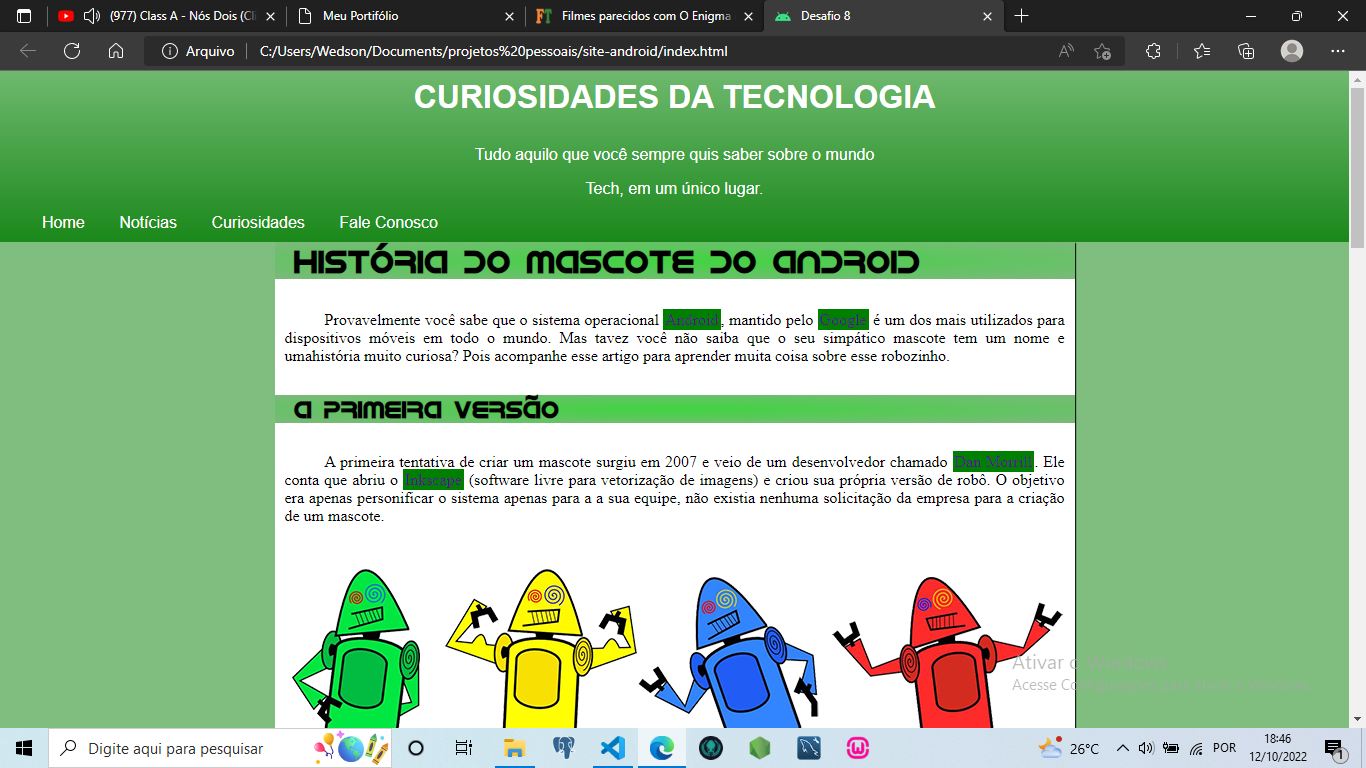
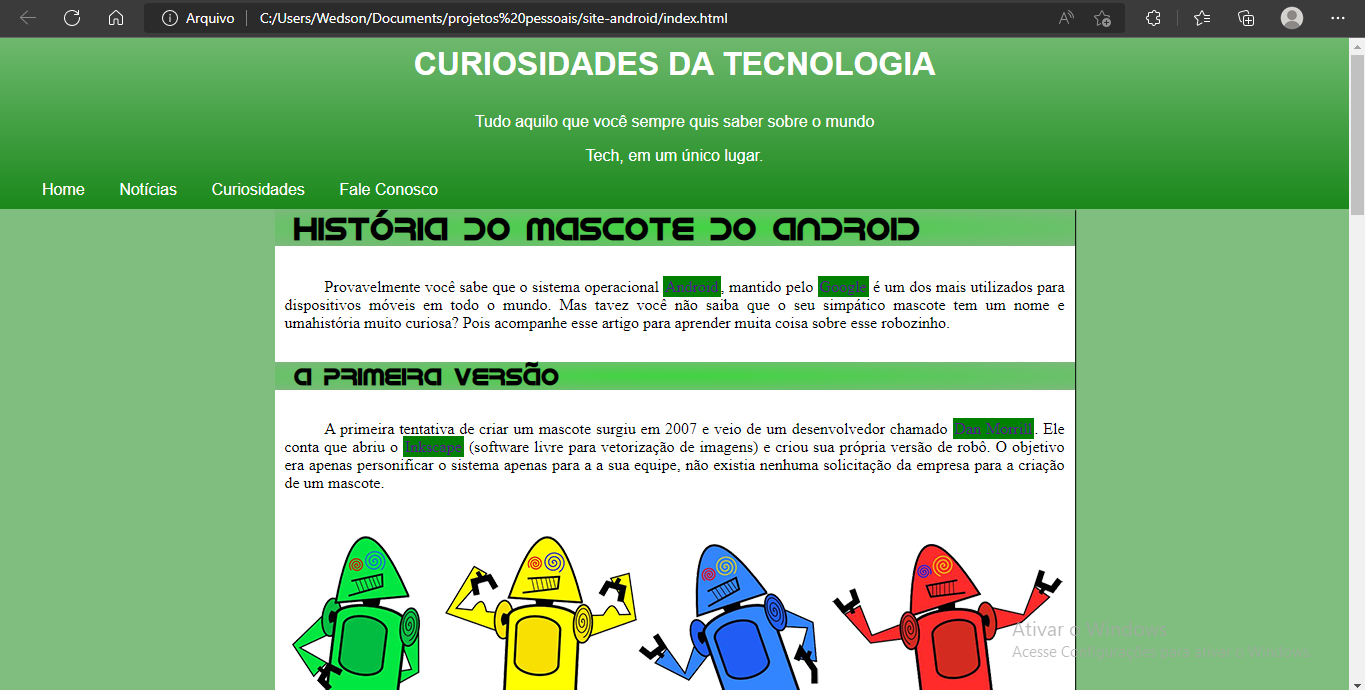
projetos v1

Changed region(s): [[0.0, 0.3957, 1.0, 1.0], [0.0, 0.0, 1.0, 0.3652]]

diff --git a/css/desktop.css b/css/desktop.css
@@ -54,19 +54,19 @@
         max-width: 60%;
         margin: auto;
         font-family: 'Patrick Hand', cursive;
-        font-size: 20px;
+        font-size: 23px;
     }
 
     .container h1 {
         margin-top: 4%;
-        margin-bottom: -30px;
+        margin-bottom: -60px;
         font-family: 'Patrick Hand', cursive;
         font-size: 30px;
     }
     
     .container {
         width:40%;
-        height:390px;
+        height:2000px;
         padding-top:20px;
         padding-left:50px;
         padding-right:50px;
@@ -74,6 +74,7 @@
         margin: auto;
         border-left: 2px solid black;
         border-right: 2px solid black;
+        margin-bottom: -1615px;
     }
 
     #st-box, #st-box2 {
@@ -159,114 +160,50 @@
     }
 
     .projetos {
-        width:40%;
-        height:390px;
+        width:70%;
+        height: 1830px;
         padding-top:20px;
-        padding-left:50px;
-        padding-right:50px;
-        text-align: center;
         margin: auto;
         border-left: 2px solid black;
         border-right: 2px solid black;
-        display: flex;
-        padding-top: 0px;
+        font-family: 'Patrick Hand', cursive;
     }
 
     .projetos h1 {
         text-align: center;
+        margin-bottom: 20px;
     }
 
-    .projetos input {
-        display: none;
-    }
-    
-    .slide {
-        width: 100%;
-        position: relative;
-        transition: 2s;
-        margin-top: 100px ;
-    }
-    
-    .slide img {
-        width: 400px;
-    }
-    
-    .manual-navigation {
-        position: absolute;
-        width: 400px;
-        margin-top: -0px;
-        display: flex;
-        justify-content: center;
-        margin: auto;
-    }
-    
-    .manual-btn {
-        border: 2px solid white;
-        padding: 5px;
-        border-radius: 10px;
-        cursor: pointer;
-        transition: 1s;
-    }
-    
-    .manual-btn:not(:last-child) {
-        margin-right: 10px;
-    }
-    
-    .manual-btn:hover {
-        background-color: white;
-    }
-    
-    #projeto1:checked ~ .first {
-        margin-left: 0%;
-    }
-    
-    #projeto2:checked  ~ .first {
-        margin-left: -25%;
-    }
-    
-    #projeto3:checked ~ .first {
-        margin-left: -50%;
-    }
-    
-    #projeto4:checked ~ .first {
-        margin-left: -75%;
-    }
-    
-    .navigation-auto div {
-        border: 2px solid #20a6ff;
-        padding: 5px;
-        border-radius: 10px;
-        cursor: pointer;
-        transition: 1s;
-        margin-top: 80px;
-    }
-    
-    .navigation-auto {
-        position: absolute;
-        width: 370px;
-        margin-top: 265px;
-        display: flex;
-        justify-content: center;
-    }
-    
-    .navigation-auto div:not(:last-child){
-        margin-right: 20px;
-    }
-    
-    #projeto1:checked ~ .navigation-auto .auto-btn1 {
-        background-color: white;
-    }
-    
-    #projeto2:checked ~ .navigation-auto .auto-btn2 {
-        background-color: white;
-    }
-    
-    #projeto3:checked ~ .navigation-auto .auto-btn3 {
-        background-color: white;
-    }
-    
-    #projeto4:checked ~ .navigation-auto .auto-btn4 {
-        background-color: white;
+    .projetos div img {
+        margin-left: 18%;
+        width: 500px;
+        height: 300px;
     }
 
+    .projetos h3 {
+        text-align: center;
+        margin: -10px;
+        margin-bottom: -30px;
+    }
+
+    .projetos div p {
+        text-align: center;
+        margin: 10px;
+        margin-bottom: 35px;
+        font-size: 18px;
+    }
+
+    .projetos div h3:hover, p:hover {
+        color: lightgray;
+        transition: 0.5s;
+        padding-right: 10px;
+    }
+
+    footer {
+        margin-top: 5px;
+        font-size: 20px;
+        text-align: center;
+        background-color: black;
+        color: lightgray;
+    }
 }

diff --git a/html/home.html b/html/home.html
@@ -87,44 +87,59 @@
 
             <br>
         </div>
-        
+
         <div class="projetos">
             <h1>Projetos</h1>
-            <input type="radio" name="radio-btn" id="projeto1">
-            <input type="radio" name="radio-btn" id="projeto2">
-            <input type="radio" name="radio-btn" id="projeto3">
-            <input type="radio" name="radio-btn" id="projeto4">
-
-            <div class="slide first">
-                <img src="../imagens/slides/lcymovie.png" alt="">
-            </div>
-            <div class="slide">
-                <img src="../imagens/slides/turismo.png" alt="">
-            </div>
-            <div class="slide">
-                <img src="../imagens/slides/loja.png" alt="">
-            </div>
-            <div class="slide">
-                <img src="../imagens/slides/android.png" alt="">
+            <div id="pj1">
+                <a href="https://github.com/LucasSoNeves/lcymovie" target="_blank"><img src="../imagens/slides/lcymovie.png" alt=""></a>
+                <p>
+                    <h3>Site de análise de filmes</h3>
+                </p>
+                <p>
+                    <b>Tecnologias utilizadas:</b> <br>
+                    HTML, CSS, JS, TS, JAVA e HEROKU.
+                </p>
             </div>
 
-            <div class="navigation-auto">
-                <div class="auto-btn1"></div>
-                <div class="auto-btn2"></div>
-                <div class="auto-btn3"></div>
-                <div class="auto-btn4"></div>
+            <div id="pj2">
+                <a href="https://github.com/LucasSoNeves/site-de-turismo" target="_blank"><img src="../imagens/slides/turismo.png" alt=""></a>
+                <p>
+                    <h3>Guia Turístico</h3>
+                </p>
+                <p>
+                    <b>Tecnologias utilizadas:</b> <br>
+                    HTML, CSS e JS.
+                </p>
+             </div>
+             
+            <div id="pj3">
+                <a href="https://github.com/LucasSoNeves/loja" target="_blank"><img src="../imagens/slides/loja.png" alt=""></a>
+                <p>
+                    <h3>Mini Loja</h3>
+                </p>
+                <p>
+                    <b>Tecnologias utilizadas:</b> <br>
+                    HTML, CSS e JS.
+                </p>
             </div>
 
-            
+            <div id="pj4">
+                <a href="https://github.com/LucasSoNeves/site-android" target="_blank"><img src="../imagens/slides/android.png" alt=""></a>
+                <p>
+                    <h3>Site android</h3>
+                </p>
+                <p>
+                    <b>Tecnologias utilizadas:</b> <br>
+                    HTML e CSS.
+                </p>
+            </div>
         </div>
-
-        <div class="manual-navigation">
-            <label for="projeto1" class="manual-btn"></label>
-            <label for="projeto2" class="manual-btn"></label>
-            <label for="projeto3" class="manual-btn"></label>
-            <label for="projeto4" class="manual-btn"></label>
-        </div>
-    </main>
-
+    </main> <br>
+    <hr>
+    <footer>
+        <p>
+            Fim do site!
+        </p>
+    </footer>
 </body>
 </html>
